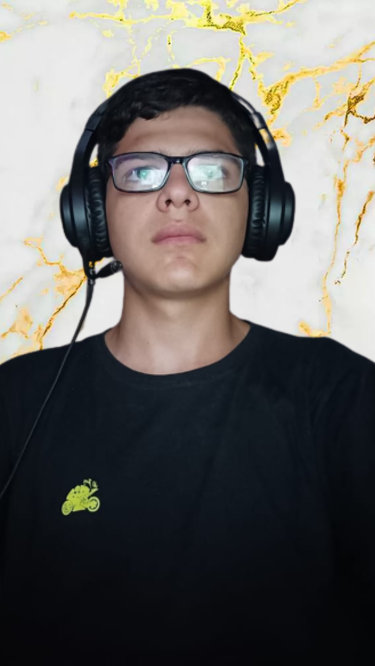
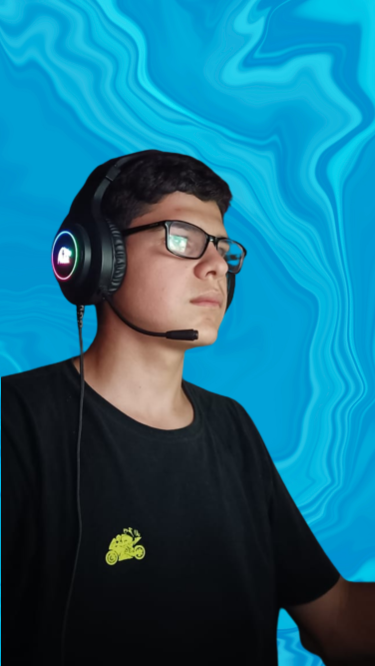
v8

diff --git a/about.html b/about.html
@@ -1,56 +1,58 @@
 <!DOCTYPE html>
-<html lang="pt-br>
-  <head>
-    <meta charset="UTF-8" />
-    <meta http-equiv="X-UA-Compatible" content="IE=edge" />
-    <meta name="viewport" content="width=device-width, initial-scale=1.0" />
-    <link
-      href="https://cdn.jsdelivr.net/npm/remixicon@3.2.0/fonts/remixicon.css"
-      rel="stylesheet"
-    />
-    <link rel="stylesheet" href="styles/STYLES.CSS" />
-    <title>Web Design | Responsive Portfolio</title>
-  </head>
-  <body>
-    <nav>
-      <div class="nav__content">
-        <div class="logo"><a href="index.html">Pedro Gaspar</a></div>
-        <label for="check" class="checkbox">
-          <i class="ri-menu-line"></i>
-        </label>
-        <input type="checkbox" name="check" id="check" />
-        <ul>
-          <li><a href="index.html">Home</a></li>
-          <li><a href="about.html">Sobre Mim</a></li>
-          <li><a href="projects.html">Projects</a></li>
-          <li><a href="portifolio.HTML">Portfolio</a></li>
-        </ul>
-      </div>
-    </nav>
-    <section class="section">
-      <div class="section__container">
-        <div class="content">
-          <p class="subtitle"><strong>Sobre Mim </strong></p>
-          <p>
-            Olá, sou um desenvolvedor web apaixonado por carros e basquete, 
-            com formação em Tecnologia da Informação. 
-            Minha jornada no mundo da tecnologia começou quando decidi mergulhar no universo da programação. 
-            Com o tempo, adquiri uma sólida base de conhecimento e habilidades que me permitiram 
-            criar soluções web incríveis.
-            <br>
-          <p class="description">
-            Minhas habilidades incluem HTML, CSS e JavaScript, 
-            que formam a base do desenvolvimento web. Além disso, domino o Angular,
-            uma estrutura poderosa para a criação de aplicativos web dinâmicos. 
-            Para gerenciar e colaborar em projetos, sou experiente em Git e GitHub, 
-            garantindo um fluxo de trabalho eficiente e colaborativo <strong>Vamos criar algo incrível juntos!</strong><p>
-          </p>
-          </p>
-        </div>
-        <div class="image">
-          <img src="assets/imagem3.png" alt="profile" />
-        </div>
-      </div>
-    </section>
-  </body>
+<html lang="pt-br">
+
+<head>
+    <meta charset="UTF-8">
+    <meta http-equiv="X-UA-Compatible" content="IE=edge">
+    <meta name="viewport" content="width=device-width, initial-scale=1.0">
+    <title>Sobre mim</title>
+    <link rel="stylesheet" href="./styles/styleee.css">
+    <link rel="stylesheet" href="./styles/STYLES.CSS">
+
+</head>
+
+<body>
+  <nav>
+    <div class="nav__content">
+      <div class="logo"><a href="index.html">Pedro Gaspar</a></div>
+      <label for="check" class="checkbox">
+        <i class="ri-menu-line"></i>
+      </label>
+      <input type="checkbox" name="check" id="check" />
+      <ul>
+        <li><a href="index.html">Home</a></li>
+        <li><a href="about.html">Sobre Mim</a></li>
+        <li><a href="projects.html">Projects</a></li>
+        <li><a href="portifolio.HTML">Portfolio</a></li>
+      </ul>
+    </div>
+  </nav>
+
+    <main class="apresentacao">
+        <section class="apresentacao__conteudo">
+          <br>
+            <h1 class="apresentacao__conteudo__titulo">Sobre mim</h1>
+            <p class="apresentacao__conteudo__texto">Olá, sou um desenvolvedor web apaixonado por carros e basquete, com formação em Tecnologia da Informação. Minha jornada no mundo da tecnologia começou quando decidi mergulhar no universo da programação. 
+  
+              Com o tempo, adquiri uma sólida base de conhecimento e habilidades que me permitiram criar soluções web incríveis.
+
+              <br>
+              <br>Minha paixão por carros transcende o mundo digital. Quando não estou imerso em códigos e projetos web, você pode me encontrar explorando as últimas novidades automobilísticas, assistindo a corridas emocionantes ou até mesmo trabalhando em projetos relacionados a carros.
+              
+              <br>
+              <br>Além disso, sou um grande fã de basquete. Acompanho as partidas da NBA e adoro jogar quando tenho a chance. O trabalho em equipe, a estratégia e a paixão pelo jogo me inspiram, assim como a programação.
+            </p>
+            <p class="apresentacao__conteudo__texto">
+              Minhas habilidades incluem HTML, CSS e JavaScript, que formam a base do desenvolvimento web. Além disso, domino o Angular, uma estrutura poderosa para a criação de aplicativos web dinâmicos. Para gerenciar e colaborar em projetos, sou experiente em Git e GitHub, garantindo um fluxo de trabalho eficiente e colaborativo.
+
+              <br>
+              <br>Como desenvolvedor web, estou sempre ansioso para enfrentar novos desafios e criar experiências digitais cativantes. Minha combinação de paixões e conhecimentos em tecnologia me permite abordar projetos de maneira única e inovadora, buscando sempre a excelência em cada linha de código.
+              
+              <br>
+              <br>Se você estiver interessado em colaborar em projetos emocionantes, compartilhar ideias sobre carros ou debater sobre basquete, estou sempre aberto a conversas enriquecedoras. Vamos criar algo incrível juntos!</p>
+        </section>
+        <img src="./assets/imagem2.png" alt="Foto de Pedro Gaspar programando">
+    </main>
+</body>
+
 </html>

diff --git a/portifolio.HTML b/portifolio.HTML
@@ -5,60 +5,54 @@
     <meta charset="UTF-8">
     <meta http-equiv="X-UA-Compatible" content="IE=edge">
     <meta name="viewport" content="width=device-width, initial-scale=1.0">
-    <title>Web Design | Responsive Portfolio</title>
-    <link
-      href="https://cdn.jsdelivr.net/npm/remixicon@3.2.0/fonts/remixicon.css"
-      rel="stylesheet">
-    <link rel="stylesheet" href="./styles/style.css">
+    <title>Portifolio</title>
+    <link rel="stylesheet" href="./styles/styleee.css">
     <link rel="stylesheet" href="./styles/STYLES.CSS">
 </head>
 
 <body>
-    <header class="cabecalho">
-        <nav>
-            <div class="nav__content">
-              <div class="logo"><a href="index.html">Pedro Gaspar</a></div>
-              <label for="check" class="checkbox">
-                <i class="ri-menu-line"></i>
-              </label>
-              <input type="checkbox" name="check" id="check" />
-              <ul>
-                <li><a href="index.html">Home</a></li>
-                <li><a href="about.html">Sobre Mim</a></li>
-                <li><a href="projects.html">Projects</a></li>
-                <li><a href="portifolio.HTML">Portfolio</a></li>
-              </ul>
-            </div>
-          </nav>
-    </header>
+  <nav>
+    <div class="nav__content">
+      <div class="logo"><a href="index.html">Pedro Gaspar</a></div>
+      <label for="check" class="checkbox">
+        <i class="ri-menu-line"></i>
+      </label>
+      <input type="checkbox" name="check" id="check" />
+      <ul>
+        <li><a href="index.html">Home</a></li>
+        <li><a href="about.html">Sobre Mim</a></li>
+        <li><a href="projects.html">Projects</a></li>
+        <li><a href="portifolio.HTML">Portfolio</a></li>
+      </ul>
+    </div>
+  </nav>
     <main class="apresentacao">
-        <section class="section">
-            <br>
-            <br>
-            <br>
-            <br>
-            <h1 class="title">Eleve seu negócio digital a outro nível<strong 
-            class="title1"> <br> Com um Front-end de qualidade!
+        <section class="apresentacao__conteudo">
+          <br>
+            <h1 class="apresentacao__conteudo__titulo">Eleve seu negócio digital a outro nível<strong 
+            class="titulo-destaque">com um Front-end de qualidade!
             </strong></h1>
-            <p class="description">Olá! Sou Pedro Gaspar, desenvolvedor
-            Front-end com especialidade em angular, HTML e
+            <p class="apresentacao__conteudo__texto">Desenvolvedor
+            Front-end com especialidade em Angular, HTML e
             CSS. Ajudo pequenos negócios e designers a
-            colocarem em prática boas ideias. Vamos
-            conversar?
-          </p>
-            <div class="image1">
+            colocarem em prática boas ideias <strong>vamos consversa?</strong></p>
+            <div class="apresentacao__links">
                 <h2 class="apresentacao__links__subtitulo">Acesse minhas redes</h2>
-                <a  href="https://github.com/pedroKA2071">
+                <a class="apresentacao__links__link" href="https://github.com/pedroKA2071">
+                    <img src="./assets/github.png">
                     Github
                 </a>
-                <a  href="https://www.linkedin.com/in/pedro-gaspar-a875a1281/">
-                    Linkedin
+                <a class="apresentacao__links__link" href="https://www.linkedin.com/in/pedro-gaspar-a875a1281/">
+                    <img src="./assets/linkedin.png">
+                    linkedin
                 </a>
-                <a  href="https://www.instagram.com/pedro_h.gasp/?next=%2F">
-                    Instagram
+                <a class="apresentacao__links__link" href="https://www.instagram.com/pedro_h.gasp/">
+                    <img src="./assets/instagram.png">
+                    instagram
                 </a>
             </div>
         </section>
+        <img src="./assets/imagem1.png" alt="Foto da Joana Santos programando">
     </main>
 </body>
 

diff --git a/styles/styleee.css b/styles/styleee.css
@@ -1,0 +1,105 @@
+@import url('https://fonts.googleapis.com/css2?family=Krona+One&family=Montserrat:wght@400;600&display=swap');
+
+:root {
+    --cor-primaria: #000000;
+    --cor-secundaria: #F6F6F6;
+    --cor-terciaria: #22D4FD;
+    --text-dark: #1f2937;
+    --text-light: #6b7280;
+    --cor-hover: #272727;
+
+    --fonte-primaria: 'Krona One', sans-serif;
+    --fonte-secundaria: 'Montserrat', sans-serif;
+}
+*{
+    margin: 0;
+    padding: 0;
+}
+
+body{
+    box-sizing: border-box;
+    background-color: #faf5ff;
+    color: var(--text-dark);
+}
+.cabecalho{
+    padding: 2% 0% 0% 15%;
+}
+.cabecalho__menu{
+    display: flex;
+    gap: 80px;
+}
+.cabecalho__menu__link{
+    font-family: var(--fonte-secundaria);
+    font-size: 1.5rem;
+    font-weight: 600;
+    color: var(--cor-terciaria);
+    text-decoration: none;
+}
+.apresentacao{
+    padding: 5% 15%;
+    display: flex;
+    align-items: center;
+    justify-content: space-between;
+}
+.apresentacao__conteudo{
+    width: 615px;
+    display: flex;
+    flex-direction: column;
+    gap: 40px;
+}
+
+.apresentacao__conteudo__titulo{
+    font-size: 2.25rem;
+    font-family: var(--fonte-primaria);
+}
+.titulo-destaque{
+    color: var(--cor-terciaria);
+}
+.apresentacao__conteudo__texto{
+    font-size: 1.5rem;
+    font-family: var(--fonte-secundaria);
+}
+
+.apresentacao__links{
+    display: flex;
+    flex-direction: column;
+    justify-content: space-between;
+    align-items: center;
+    gap: 32px;
+}
+.apresentacao__links__subtitulo{
+    font-family: var(--fonte-primaria);
+    font-weight: 400;
+    font-size: 1.5rem;
+}
+.apresentacao__links__link{
+    display: flex;
+    justify-content: center;
+    gap: 16px;
+    border: 2px solid var(--cor-terciaria);
+    width: 378px;
+    text-align: center;
+    border-radius: 8px;
+    font-size: 1.5rem;
+    font-weight: 600;
+    padding: 21.5px 0;
+    text-decoration: none;
+    color: var(--text-dark);
+    font-family: var(--fonte-secundaria);
+}
+.apresentacao__links__link:hover{
+    background-color: var(--text-light);
+}
+.rodape{
+    color: var(--cor-primaria);
+    background-color: var(--cor-terciaria);
+    padding: 24px;
+    text-align: center;
+    font-family: var(--fonte-secundaria);
+    font-size: 1.5rem;
+    font-weight: 400;
+}
+
+img{
+    border-radius: 100%;
+}

diff --git a/styles/STYLES.CSS b/styles/STYLES.CSS
@@ -1,9 +1,9 @@
 @import url("https://fonts.googleapis.com/css2?family=Poppins:wght@400;600;700&display=swap");
 
 :root {
-  --primary-color: #b49900;
-  --primary-color-dark: #8029b3;
-  --secondary-color: #b151ce;
+  --primary-color: #000000;
+  --primary-color-dark: #F6F6F6;
+  --secondary-color: #22D4FD;
   --text-dark: #1f2937;
   --text-light: #6b7280;
   --extra-light: #faf5ff;
@@ -14,6 +14,10 @@
   padding: 0;
   margin: 0;
   box-sizing: border-box;
+}
+
+span{
+  color: var(--secondary-color);
 }
 
 a {
@@ -53,7 +57,7 @@ nav .logo a {
   transition: 0.3s;
 }
 nav .logo a:hover {
-  color: var(--primary-color-dark);
+  color: var(--secondary-color);
 }
 
 nav .checkbox {
@@ -93,7 +97,7 @@ ul li a:hover {
 }
 
 .section {
-  background-color: var(--extra-light);
+  background-color: var(--primary-color-dark);
 }
 
 .section__container {
@@ -168,7 +172,7 @@ ul li a:hover {
 }
 
 .hire__me:hover {
-  background-color: var(--primary-color-dark);
+  background-color: var(--secondary-color);
 }
 
 .portfolio {
@@ -176,7 +180,7 @@ ul li a:hover {
 }
 
 .portfolio:hover {
-  background-color: var(--primary-color-dark);
+  background-color: var(--secondary-color);
   color: #ffffff;
 }
 

diff --git a/index.html b/index.html
@@ -46,7 +46,7 @@
           </div>
         </div>
         <div class="image">
-          <img src="assets/imagem1.png" alt="profile" />
+          <img src="assets/imagem3.png" alt="profile" />
         </div>
       </div>
     </section>
